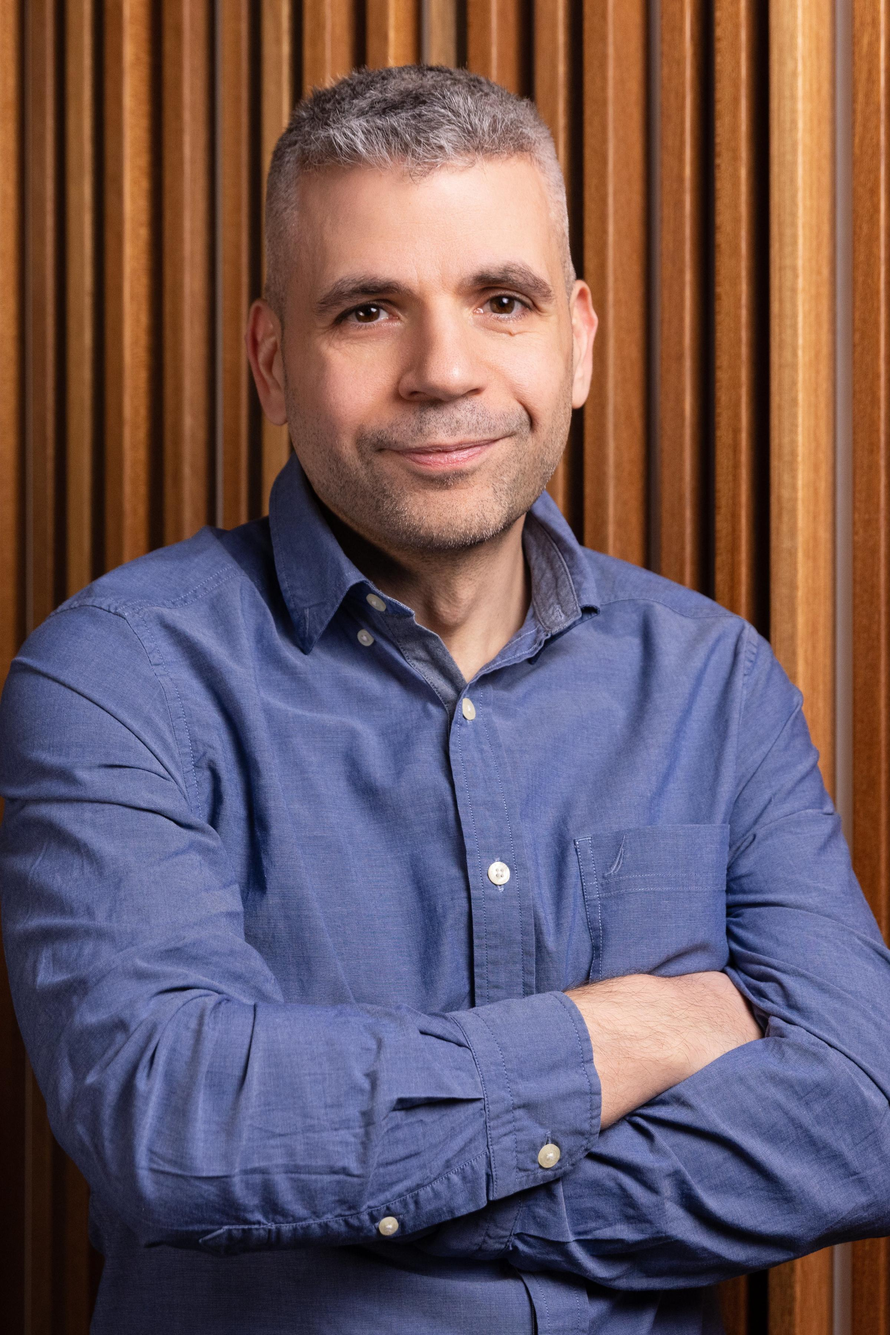
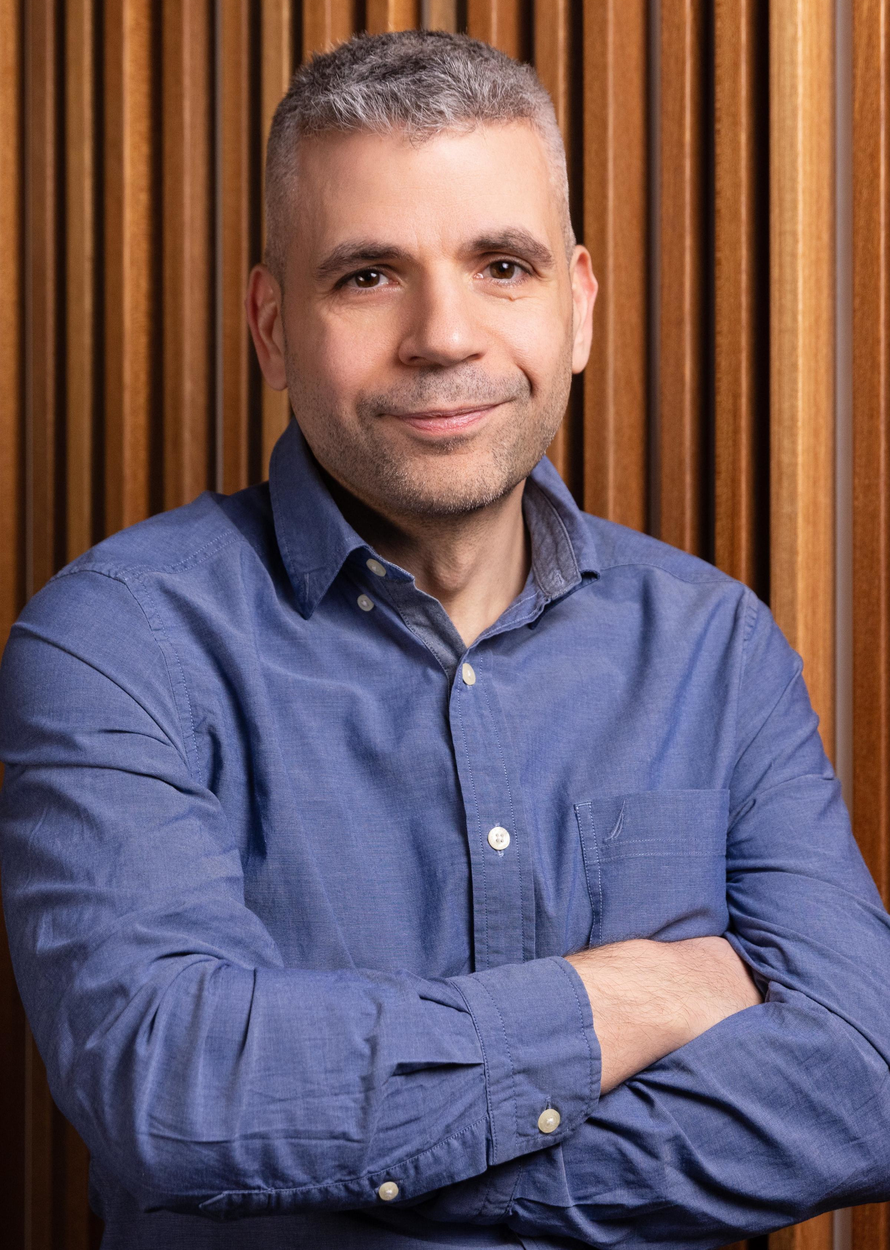
More changes

diff --git a/_pages/about.md b/_pages/about.md
@@ -2,7 +2,7 @@
 layout: about
 title: about
 permalink: /
-subtitle: <b>Assistant Professor</b> @ <a href='https://www.maastrichtuniversity.nl/'>Maastricht University</a> | <b>Previously:</b> Senior Researcher @ <a href='https://home.cern/science/experiments/alice'>CERN</a> | Senior Researcher @ <a href='https://www.iti.gr/iti/en/home/'>CERTH/ITI</a>
+subtitle: <b>Assistant Professor</b> / Coordinator Computer Systems Research Area @ <a href='https://www.maastrichtuniversity.nl/'>Maastricht University</a> | <b>Previously:</b> Senior Researcher @ <a href='https://home.cern/science/experiments/alice'>CERN</a> | Senior Researcher @ <a href='https://www.iti.gr/iti/en/home/'>CERTH/ITI</a>
 
 profile:
   align: right
@@ -27,8 +27,8 @@ latest_posts:
   limit: 3 # leave blank to include all the blog posts
 ---
 
-Write your biography here. Tell the world about yourself. Link to your favorite [subreddit](http://reddit.com). You can put a picture in, too. The code is already in, just name your picture `prof_pic.jpg` and put it in the `img/` folder.
+I am an Assistant Professor of the Internet of Things and Coordinator of the Computer Systems Research Area in the <a href='https://www.maastrichtuniversity.nl/research/department-advanced-computing-sciences'>Department of Advanced Computing Sciences</a>  of the <a href='https://www.maastrichtuniversity.nl/about-um/faculties/faculty-science-and-engineering'>Faculty of Science and Engineering</a>  at <a href='https://www.maastrichtuniversity.nl/'>Maastricht University</a>. 
 
-Put your address / P.O. box / other info right below your picture. You can also disable any of these elements by editing `profile` property of the YAML header of your `_pages/about.md`. Edit `_bibliography/papers.bib` and Jekyll will render your [publications page](/al-folio/publications/) automatically.
+My research vision centers on developing sustainable, low-power, intelligent systems for the Internet of Things across high-impact application areas for society, including Digital Agriculture, Smart Cities, Healthcare and the Industry 4.0.
 
-Link to your social media connections, too. This theme is set up to use [Font Awesome icons](https://fontawesome.com/) and [Academicons](https://jpswalsh.github.io/academicons/), like the ones below. Add your Facebook, Twitter, LinkedIn, Google Scholar, or just disable all of them.
+My research interests lie in hardware design and integration with a focus on low power consumption and miniaturization, the design, optimization and compression of algorithms based on the underlying hardware to enable intelligence at the edge, in software-hardware co-design, computer architecture, parallel and distributed computing and in GPGPU computing.

diff --git a/_news/ICPS25_1.md b/_news/ICPS25_1.md
@@ -1,0 +1,8 @@
+---
+layout: post
+date: 2025-04-12 10:41:00+0200
+inline: true
+related_posts: false
+---
+
+Paper <a href='https://arxiv.org/abs/2504.07638'>Predicting the Lifespan of Industrial Printheads with Survival Analysis</a> accepted by <a href='https://icps2025.ieee-ies.org/'>ICPS'25</a> 
